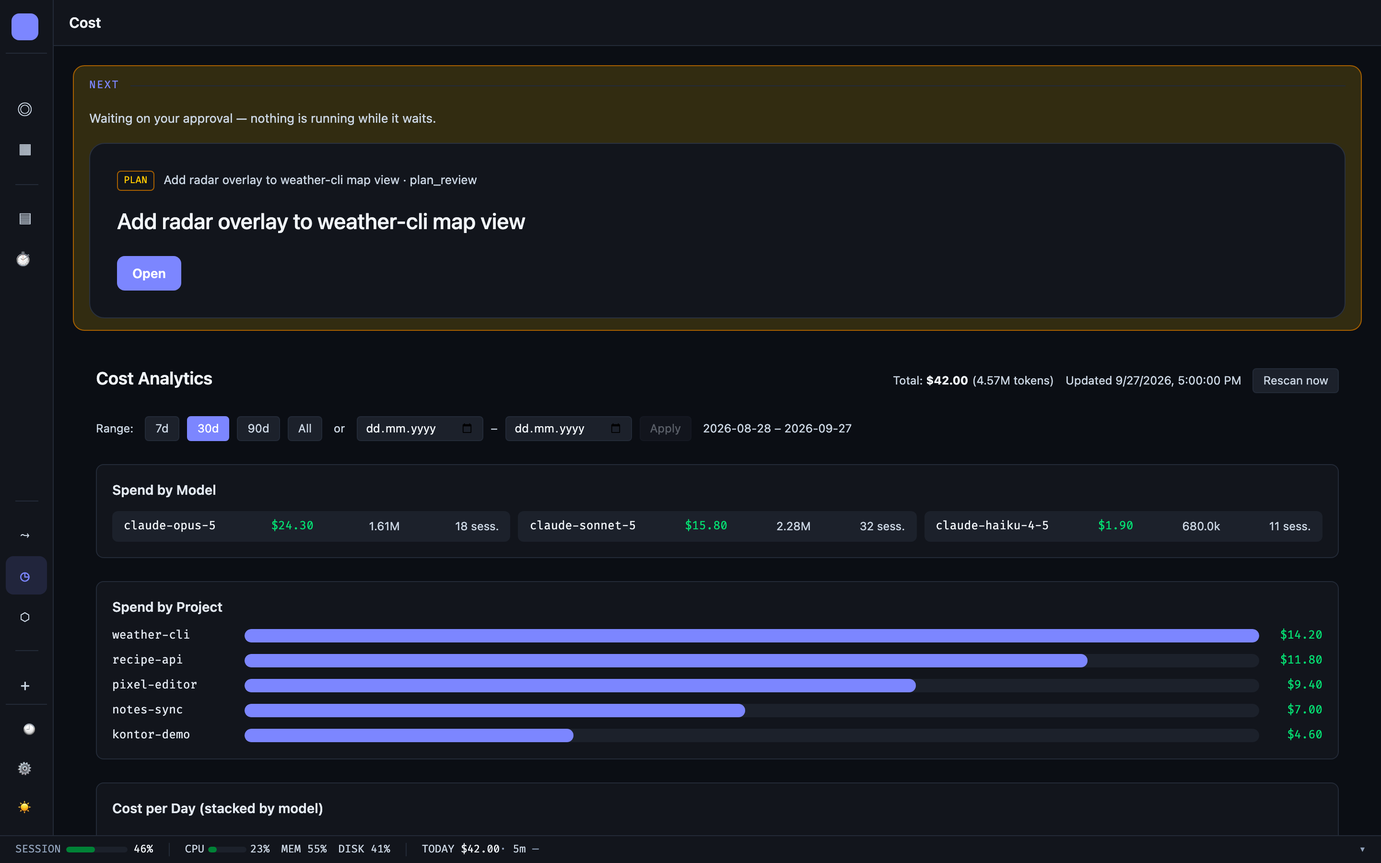
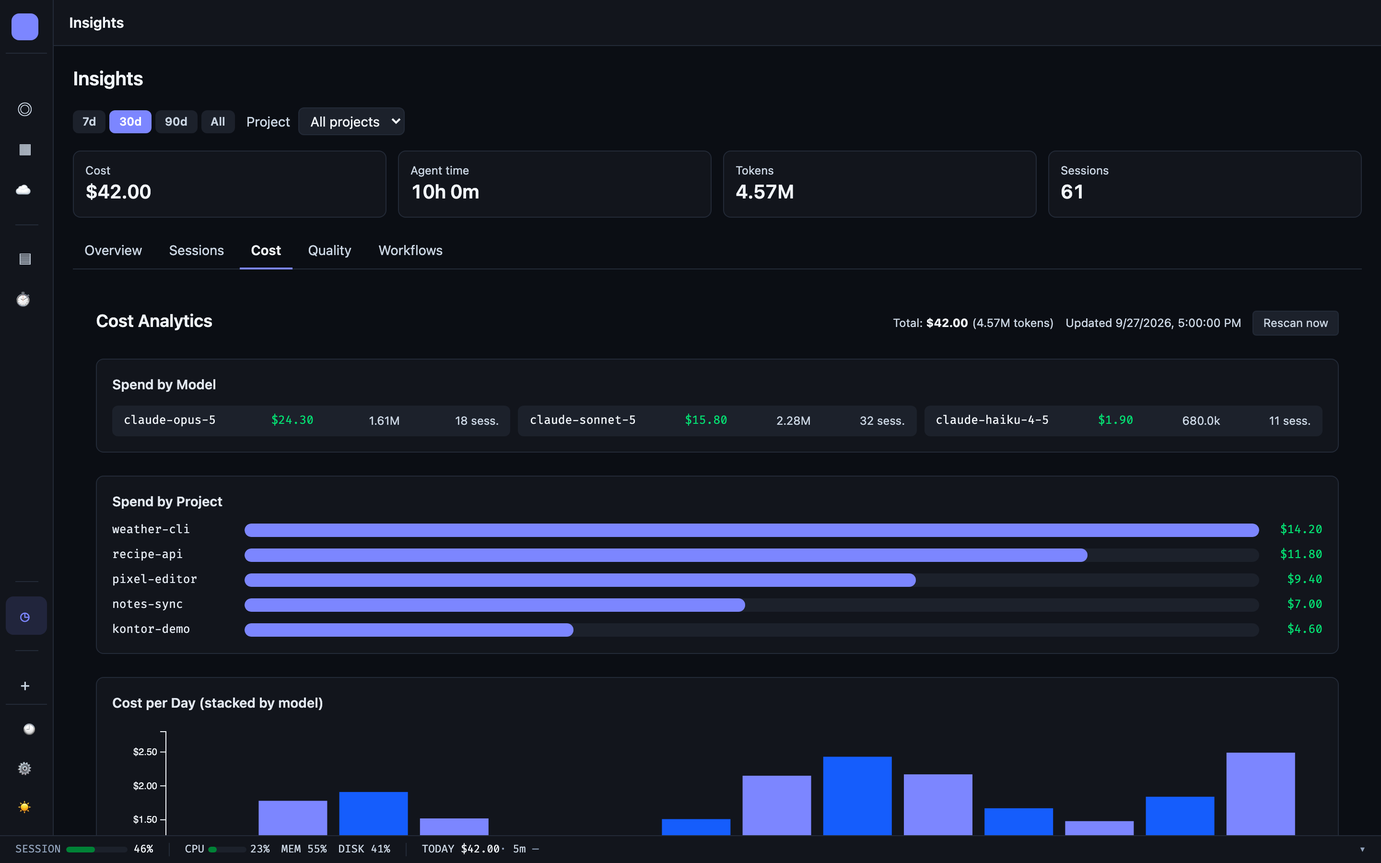
test(insights): e2e for the Insights page; docs
Claude-Session: https://claude.ai/code/session_012Rzd7rNibvdtrYnwbCpgu5

diff --git a/tests/e2e/insights.spec.ts b/tests/e2e/insights.spec.ts
@@ -1,0 +1,80 @@
+import { expect, test } from '@playwright/test'
+import { stubAuthDisabled, stubEmptyStream, stubJson } from './helpers'
+
+const ROW = {
+  sessionId: 'sess-1',
+  title: 'Refactor the forecast cache',
+  projectPath: '/home/dev/weather',
+  projectName: 'weather',
+  model: 'claude-sonnet-5',
+  startedAt: '2026-10-29T10:00:00Z',
+  recordedAt: '2026-10-29T11:00:00Z',
+  costUsd: 1.5,
+  costSource: 'cost_state',
+  costUnknownModel: false,
+  agentMs: 600_000,
+  agentTimeSource: 'measured',
+  inputTokens: 1000,
+  outputTokens: 500,
+  cacheReadTokens: 0,
+  cacheCreationTokens: 0,
+  turns: 12,
+  linesAdded: 40,
+  linesRemoved: 5,
+  modelCosts: { 'claude-sonnet-5': 1.5 },
+}
+
+test.describe('Insights', () => {
+  test.beforeEach(async ({ page }) => {
+    await stubAuthDisabled(page)
+    await stubJson(page, '/api/agents', [])
+    await stubEmptyStream(page, '/api/agents/stream')
+    await stubJson(page, '/api/insights/summary', {
+      from: '2026-09-30',
+      to: '2026-10-30',
+      current: { costUsd: 1.5, agentMs: 600_000, tokens: 1500, sessions: 1, estimated: 0 },
+      previous: null,
+    })
+    await stubJson(page, '/api/insights/projects', [{ projectPath: ROW.projectPath, projectName: ROW.projectName, sessions: 1 }])
+    await stubJson(page, '/api/insights/sessions', { rows: [ROW], total: 1, limit: 50, offset: 0 })
+    await stubJson(page, '/api/visualizations/dag', { nodes: [], edges: [] })
+    await stubJson(page, '/api/cost/summary', {
+      byModel: [],
+      byProject: [],
+      byDay: [],
+      byWeek: [],
+      totalUsd: 0,
+      totalInputTokens: 0,
+      totalOutputTokens: 0,
+      from: '',
+      to: '',
+      updatedAt: new Date().toISOString(),
+    })
+    await stubJson(page, '/api/eval/metrics', [])
+    await stubJson(page, '/api/eval/drift', [])
+
+    await page.goto('/')
+    await page.getByTestId('nav-item-insights').click()
+  })
+
+  test('overview renders the KPI header', async ({ page }) => {
+    await expect(page.getByTestId('insights-view').getByRole('heading', { level: 1 })).toHaveText('Insights')
+    await expect(page.getByTestId('insights-overview')).toBeVisible()
+    await expect(page.getByTestId('kpi-sessions')).toContainText('1')
+  })
+
+  test('quality tab shows the drift alerts', async ({ page }) => {
+    await page.getByRole('tab', { name: 'Quality' }).click()
+    await expect(page.getByRole('heading', { name: 'Open drift alerts' })).toBeVisible()
+  })
+
+  test('a session row opens the drawer and Escape closes it', async ({ page }) => {
+    await page.getByRole('tab', { name: 'Sessions' }).click()
+    await page.getByRole('row', { name: /Refactor the forecast cache/ }).click()
+    const drawer = page.getByRole('dialog')
+    await expect(drawer).toBeVisible()
+    await expect(drawer).toContainText('Refactor the forecast cache')
+    await page.keyboard.press('Escape')
+    await expect(drawer).toBeHidden()
+  })
+})

diff --git a/tests/screenshots/fixtures.ts b/tests/screenshots/fixtures.ts
@@ -498,7 +498,7 @@ export function installNetworkGuard(page: Page, viteOrigin: string): NetworkGuar
   })
 
   page.on('requestfailed', (request) => {
-    if (request.url().includes('/api/'))
+    if (request.url().includes('/api/') && request.failure()?.errorText !== 'net::ERR_ABORTED')
       guard.violations.push(`/api request reached the network and failed: ${request.url()} (${request.failure()?.errorText})`)
   })
 
@@ -580,6 +580,14 @@ export async function installDemoRoutes(page: Page): Promise<void> {
     return route.fulfill(json(demoResources(kind)))
   })
 
+  await page.route('**/api/insights/summary*', route => route.fulfill(json({
+    from: '2026-09-30',
+    to: '2026-10-30',
+    current: { costUsd: 42, agentMs: 36_000_000, tokens: 4_570_000, sessions: 61, estimated: 0 },
+    previous: null,
+  })))
+  await page.route('**/api/insights/projects*', route => route.fulfill(json([])))
+  await page.route('**/api/insights/sessions*', route => route.fulfill(json({ rows: [], total: 0, limit: 50, offset: 0 })))
   await page.route(COST_SUMMARY_RE, route => route.fulfill(json(demoCostSummary())))
   await page.route('**/api/analytics/heatmap', route => route.fulfill(json(demoHeatmap())))
   await page.route('**/api/analytics/cost-forecast', route => route.fulfill(json(demoForecast())))

diff --git a/tests/e2e/workflows.spec.ts b/tests/e2e/workflows.spec.ts
@@ -19,6 +19,8 @@ async function stubEmptyWorkflowsData(page: import('@playwright/test').Page) {
   await stubJson(page, '/api/visualizations/co-occurrence', { tools: [], matrix: [], lift: [], meta: { sessionCount: 0, truncated: false } })
   await stubJson(page, '/api/sessions', [])
   await stubJson(page, '/api/analytics/patterns', { patterns: [] })
+  await stubJson(page, '/api/insights/summary', { from: '', to: '', current: { costUsd: 0, agentMs: 0, tokens: 0, sessions: 0, estimated: 0 }, previous: null })
+  await stubJson(page, '/api/insights/projects', [])
 }
 
 test('workflows view toggle opens the four chart tabs', async ({ page }) => {
@@ -33,7 +35,8 @@ test('workflows view toggle opens the four chart tabs', async ({ page }) => {
 
   // The sidebar item, by test id: the hub's launcher for the same view carries the same
   // accessible name, so a role+name query matches both.
-  await page.getByTestId('nav-item-workflows').click()
+  await page.getByTestId('nav-item-insights').click()
+  await page.getByRole('tab', { name: 'Workflows' }).click()
 
   // The three session-independent tab buttons must be present (Session DAG
   // only renders once a session id is selected — asserted absent below).

diff --git a/tests/screenshots/readme.spec.ts b/tests/screenshots/readme.spec.ts
@@ -73,10 +73,13 @@ test.describe('README screenshots', () => {
     const guard = installNetworkGuard(page, new URL(baseURL!).origin)
     await installDemoRoutes(page)
     await page.clock.setFixedTime(DEMO_NOW)
-    await pinView(page, 'cost')
+    await pinView(page, 'insights')
+    await page.addInitScript(() => {
+      localStorage.setItem('insights-tab', 'cost')
+    })
 
     await page.goto('/', { waitUntil: 'domcontentloaded' })
-    await expect(page.getByRole('heading', { name: 'Cost Analytics' })).toBeVisible()
+    await expect(page.getByTestId('insights-view').getByRole('heading', { level: 1 })).toHaveText('Insights')
     await expect(page.getByText('Spend by Model')).toBeVisible()
     await expect(page.getByText('Spend by Project')).toBeVisible()
 

diff --git a/tests/e2e/refinement-cost.spec.ts b/tests/e2e/refinement-cost.spec.ts
@@ -25,11 +25,17 @@ test.describe('Cost analytics', () => {
       updatedAt: new Date().toISOString(),
     })
 
+    await stubJson(page, '/api/insights/summary', {
+      from: '',
+      to: '',
+      current: { costUsd: 0, agentMs: 0, tokens: 0, sessions: 0, estimated: 0 },
+      previous: null,
+    })
+    await stubJson(page, '/api/insights/projects', [])
+
     await page.goto('/')
-    await page
-      .getByRole('navigation', { name: 'Primary' })
-      .getByRole('button', { name: 'Cost' })
-      .click()
+    await page.getByTestId('nav-item-insights').click()
+    await page.getByRole('tab', { name: 'Cost' }).click()
   })
 
   test('shows the empty state and the time-range presets', async ({ page }) => {

diff --git a/src/features/insights/components/fixtures.ts b/src/features/insights/components/fixtures.ts
@@ -6,7 +6,7 @@ export function sessionRow(over: Partial<InsightsSessionRow> = {}): InsightsSess
     title: 'Fix the login bug',
     projectPath: '/code/app',
     projectName: 'app',
-    model: 'claude-opus-4',
+    model: 'fixture-model',
     startedAt: '2026-10-01T10:00:00Z',
     recordedAt: '2026-10-01T11:00:00Z',
     costUsd: 1.5,

diff --git a/CHANGELOG.md b/CHANGELOG.md
@@ -14,6 +14,7 @@ Preparing the first public release.
 
 ### Added
 
+- **Insights page with per-session metrics.** One page (side nav and command palette) with a KPI header (cost, agent time, tokens, sessions, change against the previous period), a period and project filter and the tabs Overview, Sessions, Cost, Quality and Workflows. Sessions lists every session with title, project, cost, agent time, tokens, turns and lines changed, sortable and paged, and a row opens a drawer with the per-model cost split and the session DAG. New routes: `GET /api/insights/summary`, `GET /api/insights/sessions` and `GET /api/insights/projects`; `GET /api/cost/summary` takes an optional `project`. `agent_cost_trends` gains per-session columns, including a `title` (first prompt, or custom or AI title; whitespace-collapsed, secret-scrubbed, at most 120 characters), and sessions are rescanned once on upgrade. See [PRIVACY.md](PRIVACY.md).
 - **Cloud sessions: import a claude.ai cloud session by URL and send it messages from Kontor.** Monitor › Cloud sessions (side nav and command palette; not in the hub launcher ring) lists the sessions grouped by Claude account with each account's sign-in state, an *Open in claude.ai* link, the last message sent and a *Remove from Kontor* action. An account is the exact `CLAUDE_CONFIG_DIR` value the CLI child receives, never resolved: a symlink and its target are separate logins, and a spawner without one uses the server's explicit config dir when one is set, else the default account. Routes: `GET /api/cloud-sessions`, `GET /api/cloud-sessions/stream` (SSE), `POST /api/cloud-sessions/import` (a bare `session_…`/`cse_…` ID or an `https://claude.ai/code/<id>` URL, for a Claude spawner only), `POST /api/cloud-sessions/{id}/messages`, `DELETE /api/cloud-sessions/{id}` and `GET /api/cloud-accounts`, which runs `claude auth status --json` for every account that is not cached as signed in (60 s cache, `?refresh=1` skips it; a request the browser marks `Sec-Fetch-Site: cross-site` is refused with 403 `cross-site request refused`). A message runs `claude -p --cloud <id> --output-format json` under the spawner's account with the text on stdin, never in argv. The sign-in check has a 15 s timeout and the send a 60 s timeout, so one send can take about 75 s. An account that is not signed in with claude.ai is refused with 409 `account is not signed in with claude.ai; run: CLAUDE_CONFIG_DIR='<dir>' claude auth login` (shell-quoted). If the sign-in check or the send cannot run the CLI, times out or prints no JSON, the route answers 502; if the CLI reports `ok: false`, it answers 200. In every case except the 409 the error is kept on the session (`lastError`) and shown on its row, and the next successful send clears it. Kontor never retries, because a timeout can fire after the message was delivered. The CLI cannot list or stop cloud sessions or read their replies, so Kontor does none of that; removing a session deletes Kontor's row only and leaves it on claude.ai. The CLI child gets an allow-list environment only: `PATH`, `HOME`, `USER`, `LOGNAME`, `SHELL`, `TMPDIR`, `TZ`, `TERM`, `LANG`, `LC_*`, `CLAUDE_CONFIG_DIR`, the proxy variables (`HTTP_PROXY`, `HTTPS_PROXY`, `NO_PROXY` and lowercase forms) and `SSL_CERT_FILE`, `SSL_CERT_DIR`, `NODE_EXTRA_CA_CERTS`. Anything else, including every other `CLAUDE_*` and all `ANTHROPIC_*` variables, is dropped, so the child always uses the account's claude.ai login. `TZ`, every `LC_*` except `LC_ALL`/`LC_CTYPE`, and the proxy and CA variables reach it only from the spawner's own environment; the server's values for them are not forwarded. See [PRIVACY.md](PRIVACY.md) for what is stored and sent.
 - **Cloud sessions: start a claude.ai cloud session from Kontor.** The *Start a cloud session* card in Monitor › Cloud sessions takes a Claude spawner, a project, one of its stored folders and a description, and `POST /api/cloud-sessions` runs `claude --cloud "<description>"` under a pseudo-terminal in that folder (the CLI refuses `--cloud` without a terminal). The session is taken from the CLI's `View:` line, the start gives up after 90 s, only one start per Claude account runs at a time, and a start that may have created a session (502, `mayHaveStarted`) is reported as such. The description is in the CLI's argv, so it is visible in `ps` while it runs. The cloud session clones the folder's GitHub remote, or the CLI uploads the local repository when there is none (history of all branches plus uncommitted changes to tracked files). A folder the account has not trusted answers 409 with the command to run once.
 - **A Preview features switch, and claude.ai routines behind it.** Settings › Server › *Preview features* (`features.preview`, off by default, needs no server restart; a Cloud sessions view open in the same browser window picks the switch up once it is saved in Settings, any other open view shows it the next time it is opened) gates the new Routines section in Cloud sessions and the `/api/cloud-routines` routes (list, create, `PATCH`/`DELETE` by id, and `POST /api/cloud-routines/{id}/fire`); every route answers 404 while the switch is off, and Cloud sessions then shows `Routines are a preview feature: Settings › Server › Preview features.` in place of the section. A routine holds a name, a Claude spawner, a fire URL and a token; firing it, with optional text of up to 100000 bytes, makes Kontor itself call the fire URL and records the session it starts in Cloud sessions with origin `routine`. The token is stored encrypted (AES-256-GCM) and never returned; the API only reports `hasToken`, and an empty token on update keeps the stored one. The fire URL must be exactly `https://api.anthropic.com/v1/claude_code/routines/trig_…/fire`, and redirects are not followed. A failed fire answers 502 with the upstream status and body, the body capped at 4096 bytes with the token redacted. Concurrent fires of the same routine get 409, and a fire that may have started a run (a timeout after 20 s or a dropped connection once Kontor had connected, a reply without a usable session, or a session row that could not be saved) answers 502 with `mayHaveStarted: true`, after which that routine's Fire button reads `Check claude.ai before firing again`; a timeout before a connection counts as not started. See [PRIVACY.md](PRIVACY.md) for what is stored and sent.
@@ -371,6 +372,7 @@ Preparing the first public release.
 
 ### Changed
 
+- **Cost, Eval and Workflows moved into Insights tabs, and session cost is more accurate.** The three side-nav entries are replaced by one Insights entry (a stored `cost`, `eval` or `workflows` view opens the matching Insights tab). Usage from a session's subagents (`<sessionId>/subagents/*.jsonl`) now counts toward the parent session's cost and tokens, and the real total from Claude Code's `cost-state` records is used when present; sessions without one keep a token estimate, marked `≈`.
 - **Breaking: the secret master key is read only from `KONTOR_SECRET_KEY`.** The code read `DASHBOARD_SECRET_KEY` while the docs named `KONTOR_SECRET_KEY`, so a key set as documented was ignored. `DASHBOARD_SECRET_KEY` is no longer read; if it is set without `KONTOR_SECRET_KEY`, the server and the settings CLI stop with `DASHBOARD_SECRET_KEY is no longer read; rename it to KONTOR_SECRET_KEY` instead of falling back to the key file or generating a new key, which would leave stored plugin secrets and routine tokens unreadable. Rename the variable before upgrading.
 - **Agents grouped by status sit under bands that agree with their badges.** The band holding agents badged `Working` and `Replied` was titled `Active`, a word no badge used, and the band of agents badged `Quiet` was titled `Waiting on you`, although those agents wait on nobody. The bands now read `Live`, `Quiet` and `Idle`, and the last two take their wording from the badges.
 - **An agent that has just answered shows "Replied" instead of "Active".** For up to 30 seconds after an agent closes its turn, its badge, hub label and list row read "Replied" in the accent colour, and its hub dot gets a steady accent ring, so it reads as your turn rather than as still working. Its hub label outranks a working agent's when labels collide; needs-you still outranks both. Subagent badges keep "Active".

diff --git a/.agent-context/layer2-project-core.md b/.agent-context/layer2-project-core.md
@@ -61,6 +61,7 @@
 | Typed SSE broadcaster + cloud event types (Go) | `server/internal/sse/typed_broadcaster.go` | `TypedBroadcaster[E]`, `CloudSessionEvent`, `CloudSessionCreated/Updated/Deleted` |
 | Cloud session API types (client; hand-kept parity with `server/internal/api/cloudsessions/handler.go` `SessionView` and `accounts.go` `accountView`) | `src/features/cloud/composables/useCloudSessions.ts` | `CloudSessionView`, `CloudAccount`, `CloudSessionEvent`, `StartCloudSessionInput`, `StartUnconfirmedError` (Go side: `createBody`) |
 | Cloud routine API types (client; hand-kept parity with `server/internal/api/cloudroutines/handler.go` `routineView`) | `src/features/cloud/composables/useCloudRoutines.ts` | `CloudRoutineView`, `FireFailedError`, `FireUnconfirmedError` |
+| Insights API types (client; hand-kept parity with `server/internal/api/insights/handler.go` `totals`, `summaryResponse`, `sessionRow`, `sessionsResponse`, `projectRow`) | `src/features/insights/insightsApi.ts` | `InsightsSummary`, `InsightsSessionRow`, `InsightsSessionsPage`, `InsightsProject`, `presetRange` |
 | Routine fire URL rule + request headers (Go) | `server/internal/cloud/routine.go` | `ValidateFireURL`, `RoutineBetaHeader`, `AnthropicVersion` |
 | Claude-spawner test + title rule for cloud sessions and routines (Go) | `server/internal/api/cloudsessions/handler.go` | `RunsClaude`, `ValidateTitle` |
 | Claude-spawner picker (client; mirrors `RunsClaude`) | `src/features/cloud/claudeSpawners.ts` | `isClaudeSpawner`, `claudeSpawnerOptions`, `useClaudeSpawnerPicker` |
@@ -72,7 +73,7 @@
 | Nav item test id | `src/utils/navConfig.ts` | `navItemTestId`, `navItemSelector` |
 | View to page id mapping | `src/composables/useViewState.ts` | `pageIdOf`, `pageView` |
 
-**Client and server are different languages — no cross-import.** The Vue client (TypeScript) and the Go server each keep their own copy of a shared rule; Go cannot import TS. Where a rule must agree on both sides (e.g. the task-slug pattern), keep `server/internal/validation/slug.go` and `src/utils/validation.ts` in parity by hand — there is no shared module. The workspace layout rules are the second hand-kept TS↔Go pair, between `src/features/workspace/layout.ts` and `server/internal/settings/workspace_layout.go`. The cloud session view, account and event types are the third and fourth, between `src/features/cloud/composables/useCloudSessions.ts` and `server/internal/api/cloudsessions/` (`SessionView`, `accountView`, and `createBody` against `StartCloudSessionInput`) plus `server/internal/sse/typed_broadcaster.go` (`CloudSessionEvent`). The cloud routine view is the fifth, between `src/features/cloud/composables/useCloudRoutines.ts` (`CloudRoutineView`) and `server/internal/api/cloudroutines/handler.go` (`routineView`).
+**Client and server are different languages — no cross-import.** The Vue client (TypeScript) and the Go server each keep their own copy of a shared rule; Go cannot import TS. Where a rule must agree on both sides (e.g. the task-slug pattern), keep `server/internal/validation/slug.go` and `src/utils/validation.ts` in parity by hand — there is no shared module. The workspace layout rules are the second hand-kept TS↔Go pair, between `src/features/workspace/layout.ts` and `server/internal/settings/workspace_layout.go`. The cloud session view, account and event types are the third and fourth, between `src/features/cloud/composables/useCloudSessions.ts` and `server/internal/api/cloudsessions/` (`SessionView`, `accountView`, and `createBody` against `StartCloudSessionInput`) plus `server/internal/sse/typed_broadcaster.go` (`CloudSessionEvent`). The cloud routine view is the fifth, between `src/features/cloud/composables/useCloudRoutines.ts` (`CloudRoutineView`) and `server/internal/api/cloudroutines/handler.go` (`routineView`). The Insights API types are the sixth, between `src/features/insights/insightsApi.ts` and `server/internal/api/insights/handler.go`.
 
 **How to apply:** Before adding any constant or utility function, grep the codebase for existing implementations. If one already exists, import it — never copy it. If adding a new shared value, put it in the canonical location first, then import everywhere.
 

diff --git a/PRIVACY.md b/PRIVACY.md
@@ -46,6 +46,7 @@ All persistent data stays on your machine. No data is synced to a cloud service 
 | `mcp_applications` | MCP application definitions (command, arguments, non-secret environment) and, per application, the IDs of the spawners it is limited to (`allowed_spawners`). Secret values are encrypted in a separate table. |
 | `cloud_sessions` | One row per claude.ai cloud session you start or import in Cloud sessions (a started session's title is the first line of its description, at most 120 characters; the description itself is not stored): the session ID, its URL, the ID of the spawner it is sent through, a title, its origin, the text of the last message you sent to it, up to its first 2,000 characters (earlier messages are overwritten, replies are never read), the time of that message, and the text of the last error, if any. The last error can quote the `claude` CLI's stderr: a short prefix (`claude <command> failed: `) plus at most 4096 bytes of cleaned stderr. It is stored for a failed send and for a failed sign-in check alike. **Remove from Kontor** (`DELETE /api/cloud-sessions/{id}`) deletes the row; the session on claude.ai is untouched. |
 | `cloud_routines` | One row per claude.ai routine you add in Cloud sessions (Preview features only): `id`, `created_at`, `updated_at`, a name, the fire URL, the ID of the spawner it runs under, and the routine's token as `token_ciphertext` and `token_nonce`. The token is encrypted with AES-256-GCM (secretbox) and decrypting it needs the server's secret key; no API returns it, only whether one is stored. A session a routine starts is stored in `cloud_sessions` like any other. Deleting the routine (`DELETE /api/cloud-routines/{id}`) deletes the row and the token; sessions it already started stay. |
+| `agent_cost_trends` | One row per session for the Insights page: project, model, start and record time, cost (real from Claude Code's `cost-state` records, otherwise a token estimate), token counts, turns, lines changed, agent time, and a `title` — the first prompt, or a custom or AI title, whitespace-collapsed, secret-scrubbed and cut to at most 120 characters. Subagent usage is added to its parent session. Stored locally only; no API delete path (see below). |
 | `cost_history` | Aggregated per-session token and cost data imported from JSONL files |
 | `capabilities` | The permission catalogue — one row per grantable capability (a Claude Code tool name, or a coarser named action such as `memory.read`/`memory.write`) with its class and which enforcement points may apply it. Seeded on boot from the built-in tool list plus a small fixed set of non-tool actions; no user content. |
 | `grants` | Capability grants bound to a context (global, project, task, routine, or agent session): pattern, mode (allow/deny/ask), optional expiry and rate limit, and who granted or revoked it. Existing `task_permissions` and `permission_presets` rows are backfilled into this table on boot (`granted_by = "migration:legacy"`). Also created and revoked directly via the `kontor grants` CLI; a revoked grant's row is kept (tombstoned via `revoked_at`/`revoked_by`), not deleted, so revoking a grant does not remove data. |

diff --git a/README.md b/README.md
@@ -73,8 +73,8 @@ See [CONTRIBUTING.md](./CONTRIBUTING.md) for the full dev setup and command refe
 |---|---|
 | ![Dashboard view](docs/assets/dashboard.png) | ![Pipeline view](docs/assets/pipeline.png) |
 | Dashboard — live agent roster with the needs-you band | Pipeline — tasks across stages, each in its own worktree |
-| ![Cost tracking](docs/assets/cost.png) | ![Agent detail](docs/assets/agent-detail.png) |
-| Cost insights — token usage and spend by session | Agent detail — transcript, tasks, and permissions |
+| ![Insights — cost tab](docs/assets/cost.png) | ![Agent detail](docs/assets/agent-detail.png) |
+| Insights — spend by model and project, with per-session metrics | Agent detail — transcript, tasks, and permissions |
 
 *Images generated from demo data. Regenerate with `pnpm screenshots`.*
 
@@ -94,7 +94,7 @@ See [CONTRIBUTING.md](./CONTRIBUTING.md) for the full dev setup and command refe
 
 **Pipeline & schedules** — tasks move through backlog, optional plan review, implementation, self-review and finalization, each stage a `claude` process in its own git worktree behind permission gates; per-stage engine, model and reasoning effort. A plan-usage gate blocks spawns when Claude's five-hour or seven-day rate-limit window exceeds a configurable threshold, resuming automatically after the window resets. A task whose work landed outside the pipeline (a hand-made PR or commit) is closed with **Mark Done** in its footer or `kontor tasks done <id> --ref owner/repo#123`; the reference lands in the audit log. Schedules fire recurring tasks from a cron expression (written in plain language, translated once).
 
-**Insights** — workflow patterns, cost by project and session, and eval drift detection over past stage runs.
+**Insights** — one page with a KPI header (cost, agent time, tokens, sessions, with the change against the previous period), a period and project filter, and the tabs Overview, Sessions, Cost, Quality and Workflows. Sessions is a sortable table of every session with its title (the first prompt, or a custom or AI title; whitespace-collapsed, secrets scrubbed, at most 120 characters), cost, agent time, tokens, turns and lines changed; a row opens a drawer with the model split and the session's tool DAG. Cost uses the real total from Claude Code's `cost-state` records and falls back to a token estimate, shown with a `≈` prefix; usage of a session's subagents counts toward the session. Quality shows eval drift over past stage runs and Workflows the Sankey, spawn tree and co-occurrence charts (the project filter does not apply to those two tabs). The former Cost, Eval and Workflows views now live here.
 
 **Integrations** — MCP endpoint with scoped tokens, MCP applications such as mail that can be [limited to chosen spawners](docs/guides/mcp.md#limiting-an-application-to-spawners) (Claude accounts), Obsidian vault ([guide](docs/guides/obsidian.md)), GitHub pull requests ([guide](docs/guides/github.md)), pluggable LLM adapters (OpenAI-compatible, Ollama, `anthropic`), Web Push, webhook and email notifications. Codex, Gemini and Junie CLI agents can be monitored opt-in.
 
